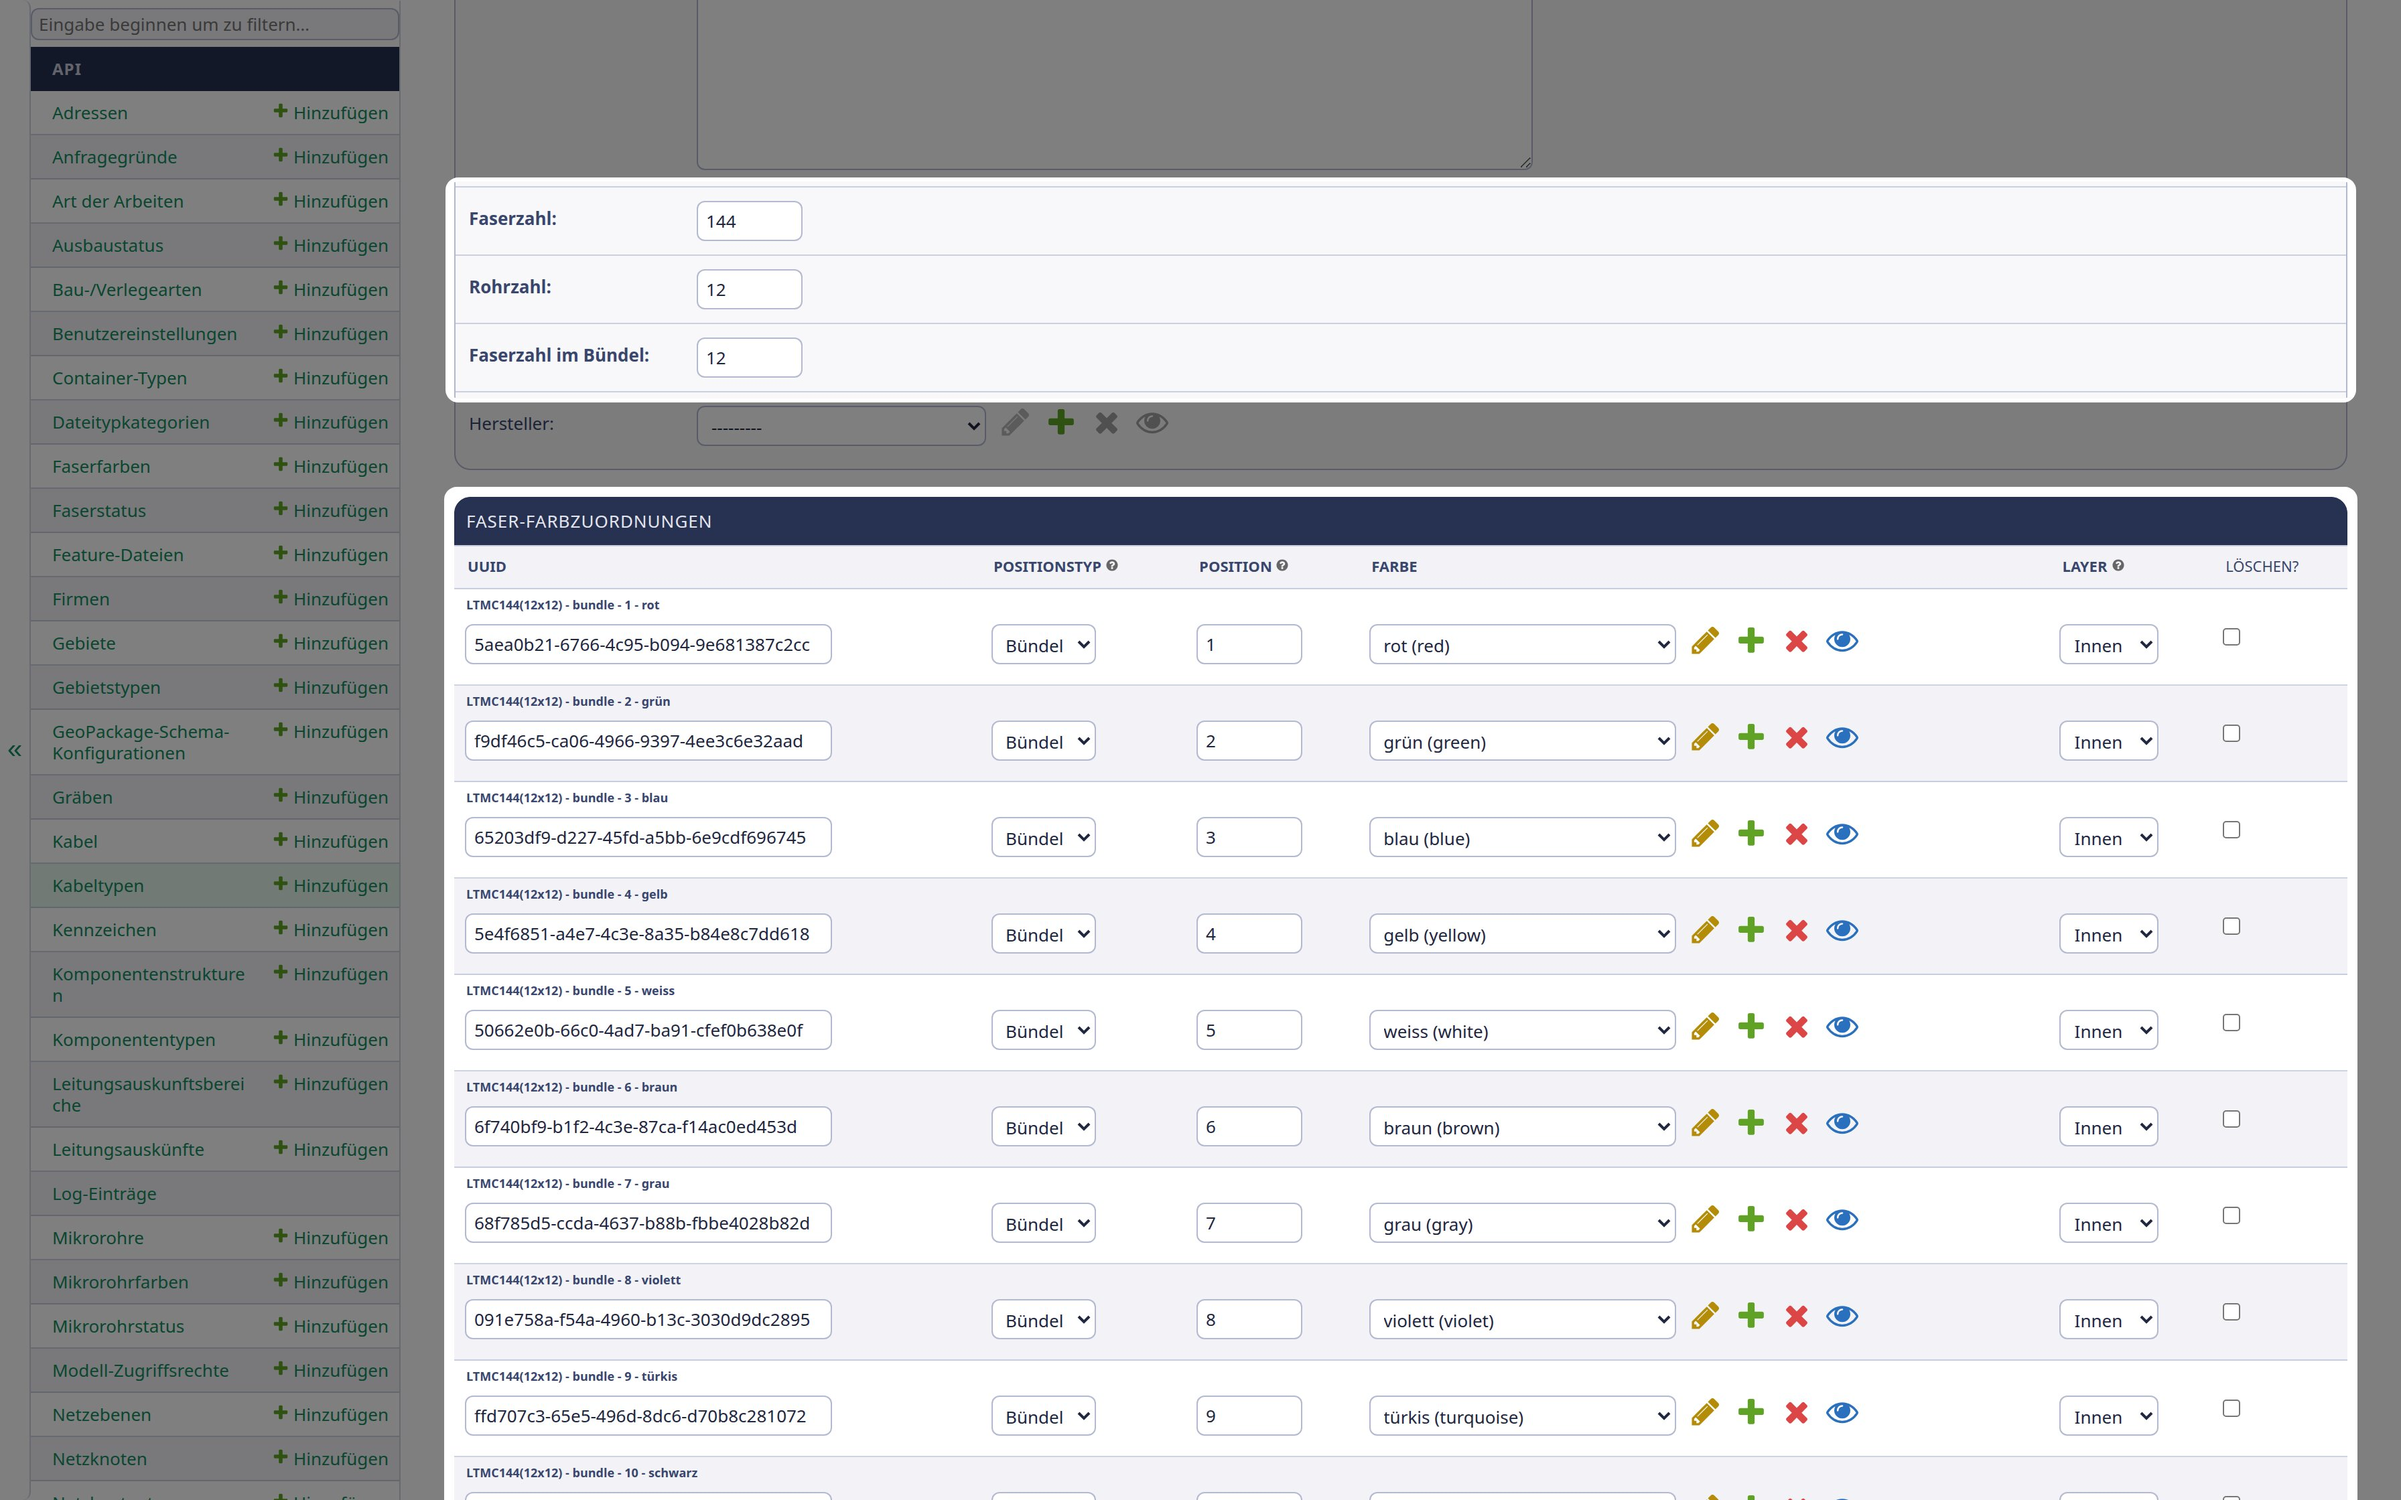
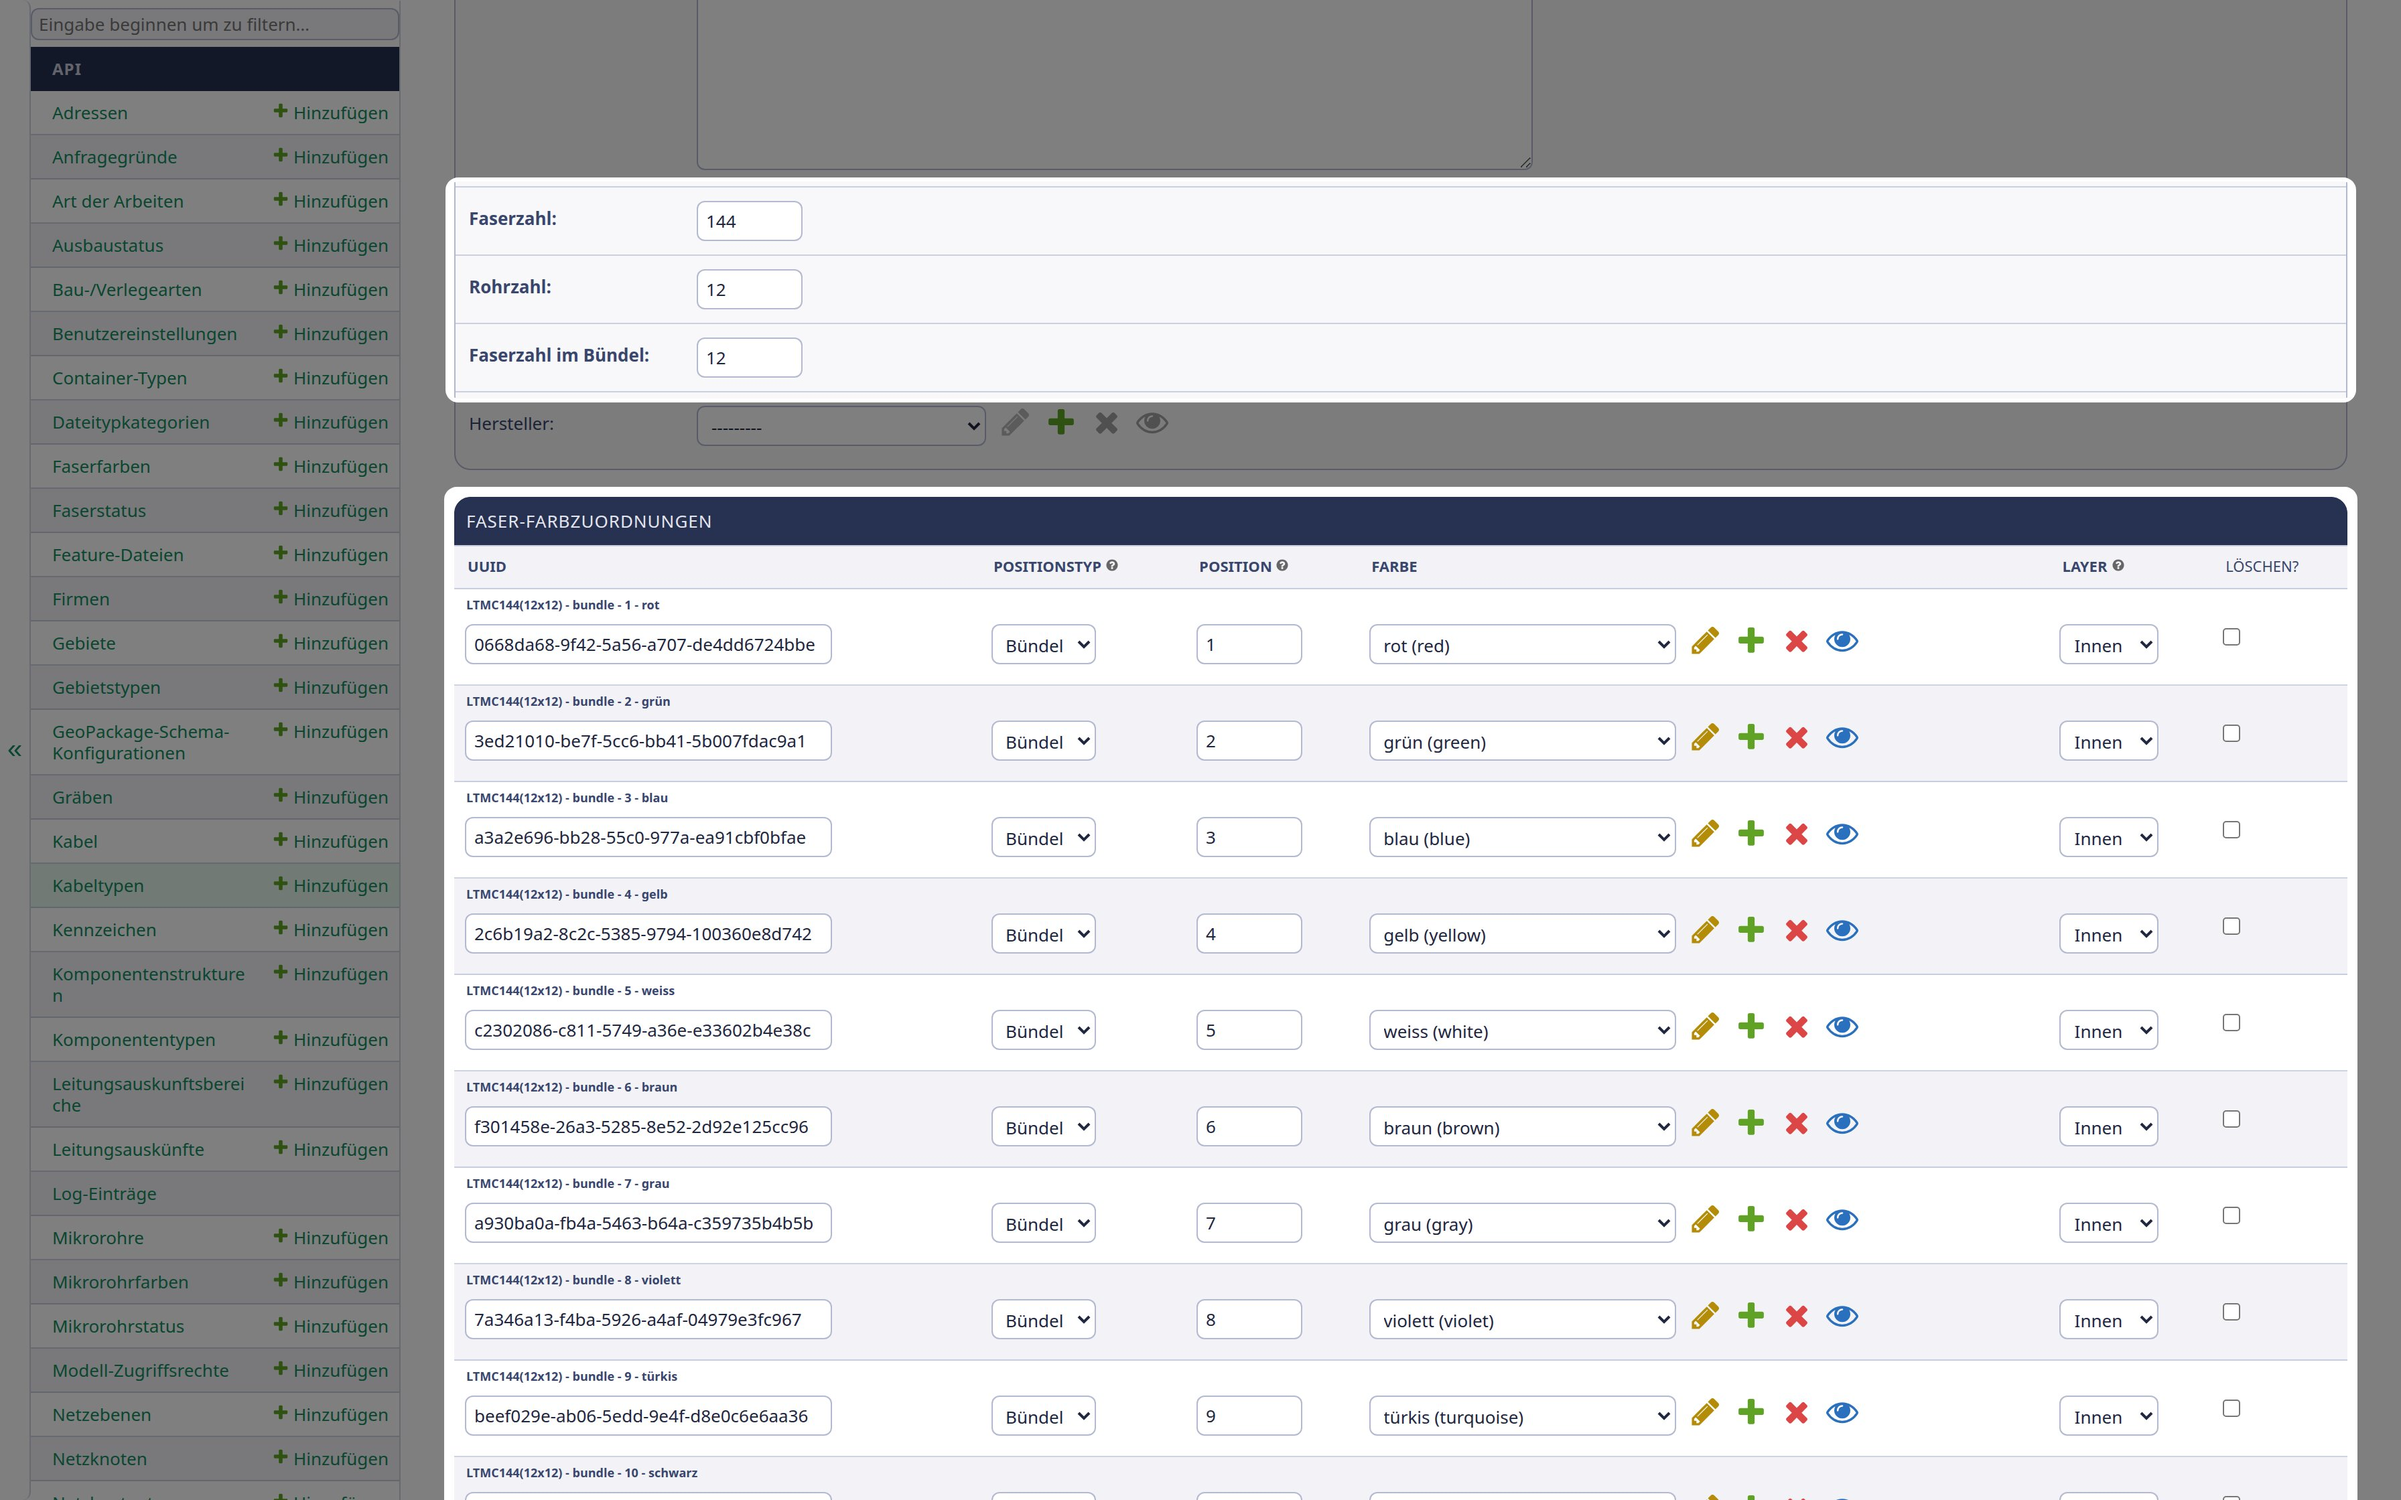
capture: pin the colour-mapping ids of chapter 21, restore permission_users
The inline rows of admin_conduit_type and admin_cable_type show the
mappings' UUID primary keys, which the app's fixtures leave out - every
install drew new ones, so CI never reproduced the images. The spec now
sets a uuid5 derived from type and position before capturing.

permission_users.jpg goes back to the version CI reproduces: the local
capture counted a hand-made account ("6 gesamt" instead of 5).

diff --git a/playwright/stable-admin-ids.ts b/playwright/stable-admin-ids.ts
@@ -1,0 +1,38 @@
+// Primary keys the Django administration shows in its inline forms.
+//
+// The colour mappings of conduit and cable types (chapter 21.4/21.5) have a
+// UUID as primary key, and the inline renders it as an editable field in
+// every row. The app's fixtures (conduit_type_color_mapping.json,
+// cable_type_color_mapping.json) carry no pk, so `load_initial_data` draws a
+// fresh uuid4 for every row on every install - each CI run and each local
+// reset showed different ids, and admin_conduit_type / admin_cable_type never
+// matched the published images.
+//
+// Like a stamped date, the value is pinned rather than hidden: each mapping
+// gets a uuid5 derived from what makes it unique (type, position, ...). No
+// other table refers to the mappings, so rewriting the key through
+// QuerySet.update() touches nothing else, and running it twice is a no-op.
+import { expectOutput, runInBackend } from './backend-shell'
+
+export function pinColorMappingUuids(): void {
+  const output = runInBackend(
+    [
+      'import uuid',
+      'from apps.api.models import CableTypeColorMapping, ConduitTypeColorMapping',
+      'ns = uuid.UUID("6f3c1f3e-5d1a-4c55-9a52-2b8f0c7e9d10")',
+      'def pin(model, key):',
+      '    n = 0',
+      '    for m in list(model.objects.all()):',
+      '        new = uuid.uuid5(ns, model.__name__ + ":" + key(m))',
+      '        if m.pk != new:',
+      '            model.objects.filter(pk=m.pk).update(uuid=new)',
+      '        n += 1',
+      '    return n',
+      'a = pin(ConduitTypeColorMapping, lambda m: f"{m.conduit_type}:{m.position}")',
+      'b = pin(CableTypeColorMapping, lambda m: f"{m.cable_type}:{m.position_type}:{m.layer}:{m.position}")',
+      'print("pinned", a > 0 and b > 0)',
+    ].join('\n'),
+    'Pinning the colour-mapping ids',
+  )
+  expectOutput(output, 'pinned True', 'Pinning the colour-mapping ids')
+}

diff --git a/tests/21-projekte-und-stammdaten.spec.ts b/tests/21-projekte-und-stammdaten.spec.ts
@@ -2,6 +2,7 @@ import { expect, test, type Page } from '../playwright/test'
 
 import { blankExtraInlineUuids, formRow, openAdmin, unionBox } from '../playwright/admin-pages'
 import { shoot, spotlight } from '../playwright/manual-shots'
+import { pinColorMappingUuids } from '../playwright/stable-admin-ids'
 
 // Screenshots for chapter "21. Projekte und Stammdaten pflegen" in the manual
 // (manual/teil-b-betrieb-admin-qgis/21-projekte-und-stammdaten.md). Produces
@@ -27,6 +28,10 @@ import { shoot, spotlight } from '../playwright/manual-shots'
 //
 // Publish to public/images/ with: pnpm screenshots:publish 21-projekte-und-stammdaten
 const CHAPTER = '21-projekte-und-stammdaten'
+
+// The inline rows of 21.4 and 21.5 show the mappings' primary keys, which a
+// fresh install draws at random - see playwright/stable-admin-ids.ts.
+test.beforeAll(() => pinColorMappingUuids())
 
 /** Opens the change form of the row of `listPath` whose link reads `name`. */
 async function openRow(page: Page, listPath: string, name: string): Promise<void> {
